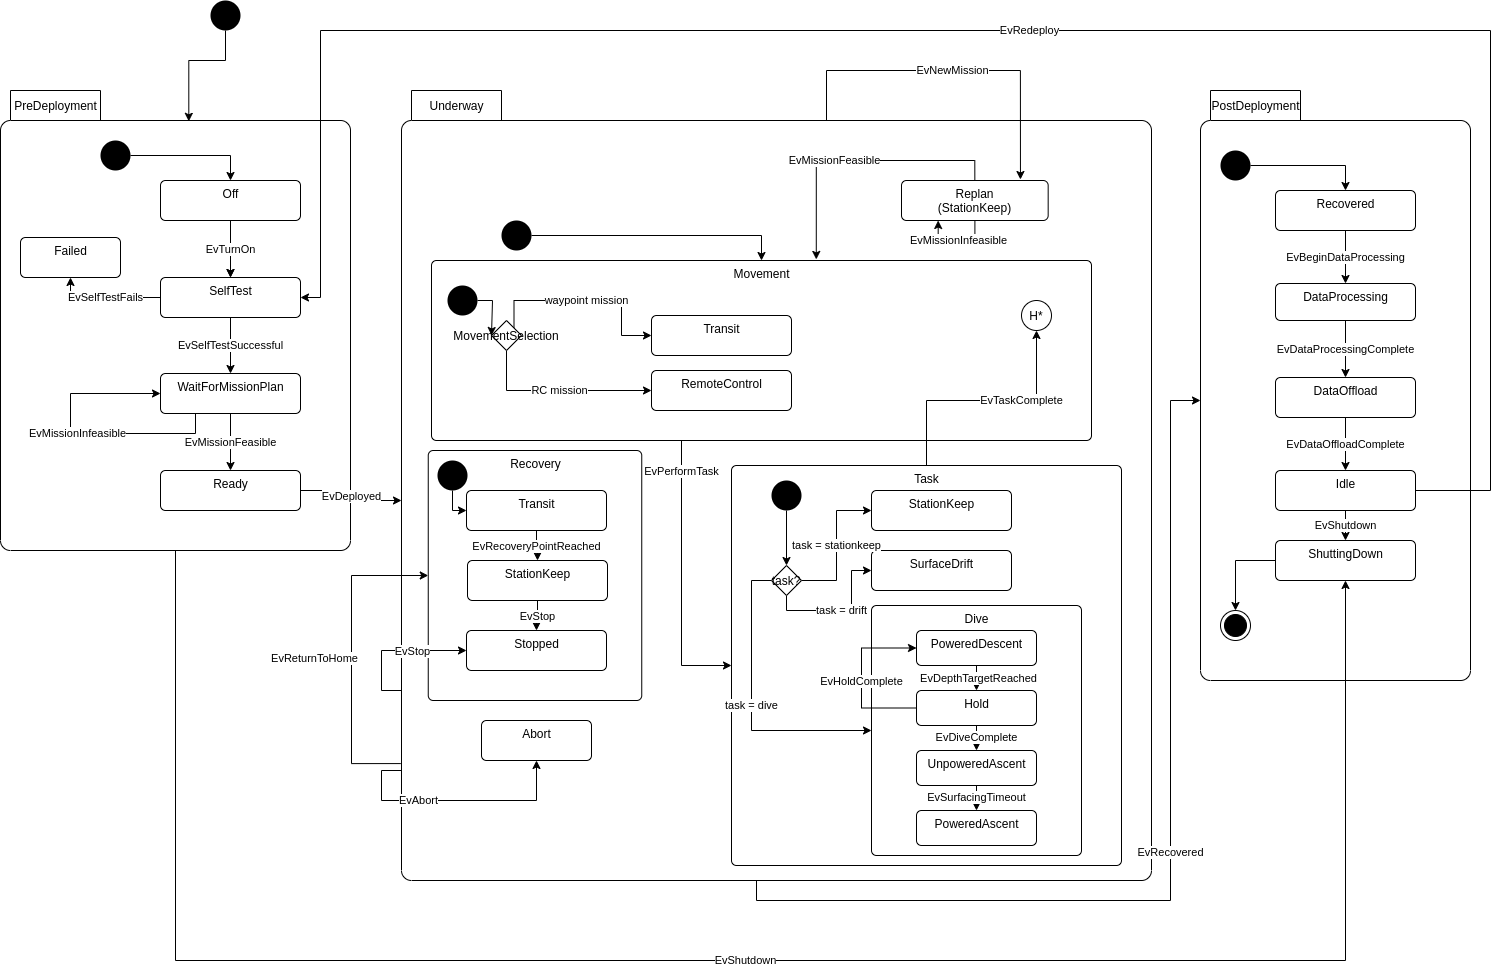
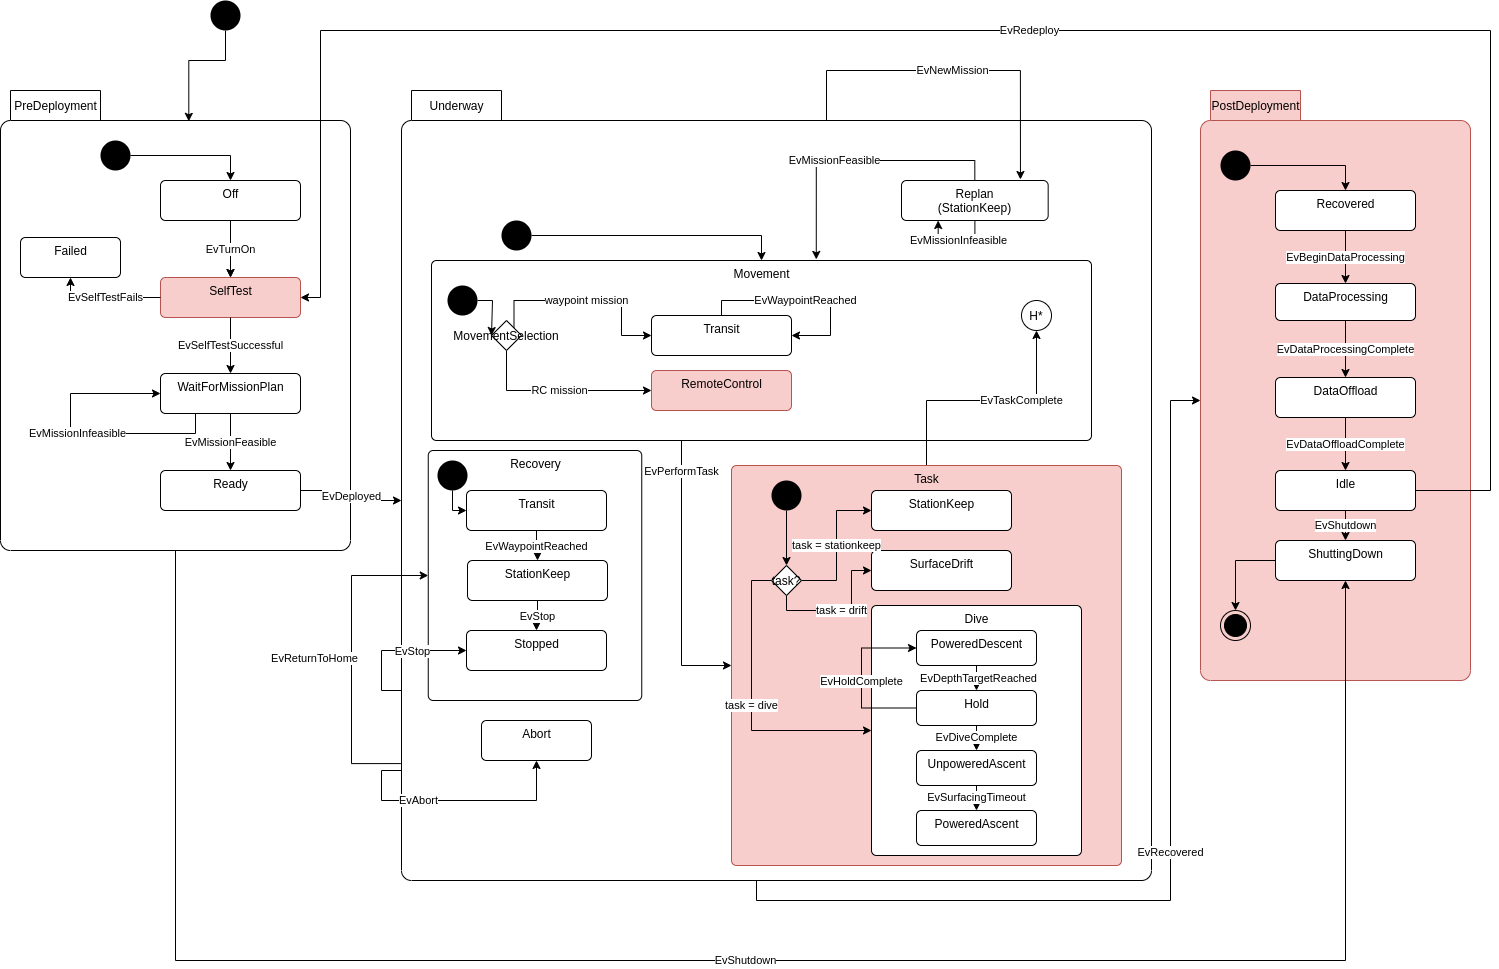
Implement transit and stationkeep

diff --git a/src/bin/mission_manager/machine.cpp b/src/bin/mission_manager/machine.cpp
@@ -1,19 +1,116 @@
 #include "machine.h"
 #include "mission_manager.h"
 
-jaiabot::statechart::underway::movement::Transit::Transit(typename StateBase::my_context c)
-    : StateBase(c)
-{
-    protobuf::MissionPlan::Goal goal = context<Underway>().current_goal();
-    protobuf::IvPBehaviorUpdate update;
-    protobuf::IvPBehaviorUpdate::TransitUpdate& transit = *update.mutable_transit();
+using goby::glog;
 
-    auto xy = this->machine().geodesy().convert(
-        {goal.location().lat_with_units(), goal.location().lon_with_units()});
+jaiabot::protobuf::IvPBehaviorUpdate
+create_transit_update(const jaiabot::protobuf::GeographicCoordinate& location,
+                      boost::units::quantity<boost::units::si::velocity> speed,
+                      const goby::util::UTMGeodesy& geodesy)
+{
+    jaiabot::protobuf::IvPBehaviorUpdate update;
+    jaiabot::protobuf::IvPBehaviorUpdate::TransitUpdate& transit = *update.mutable_transit();
+
+    auto xy = geodesy.convert({location.lat_with_units(), location.lon_with_units()});
 
     transit.set_x_with_units(xy.x);
     transit.set_y_with_units(xy.y);
-    transit.set_speed_with_units(this->cfg().transit_speed_with_units());
+    transit.set_speed_with_units(speed);
 
+    glog.is_verbose() && glog << group("movement")
+                              << "Sending update to pHelmIvP: " << update.ShortDebugString()
+                              << std::endl;
+    return update;
+}
+
+jaiabot::protobuf::IvPBehaviorUpdate
+create_stationkeep_update(const jaiabot::protobuf::GeographicCoordinate& location,
+                          boost::units::quantity<boost::units::si::velocity> transit_speed,
+                          boost::units::quantity<boost::units::si::velocity> outer_speed,
+                          const goby::util::UTMGeodesy& geodesy)
+{
+    jaiabot::protobuf::IvPBehaviorUpdate update;
+    jaiabot::protobuf::IvPBehaviorUpdate::StationkeepUpdate& stationkeep =
+        *update.mutable_stationkeep();
+
+    stationkeep.set_active(true);
+
+    auto xy = geodesy.convert({location.lat_with_units(), location.lon_with_units()});
+
+    stationkeep.set_x_with_units(xy.x);
+    stationkeep.set_y_with_units(xy.y);
+    stationkeep.set_transit_speed_with_units(transit_speed);
+    stationkeep.set_outer_speed_with_units(outer_speed);
+
+    glog.is_verbose() && glog << group("movement")
+                              << "Sending update to pHelmIvP: " << update.ShortDebugString()
+                              << std::endl;
+    return update;
+}
+
+// Movement::Transit
+jaiabot::statechart::underway::movement::Transit::Transit(typename StateBase::my_context c)
+    : StateBase(c)
+{
+    boost::optional<protobuf::MissionPlan::Goal> goal = context<Underway>().current_goal();
+
+    if (goal)
+    {
+        auto update = create_transit_update(
+            goal->location(), this->cfg().transit_speed_with_units(), this->machine().geodesy());
+        this->interprocess().publish<groups::mission_ivp_behavior_update>(update);
+    }
+}
+
+// Recovery::Transit
+jaiabot::statechart::underway::recovery::Transit::Transit(typename StateBase::my_context c)
+    : StateBase(c)
+{
+    auto recovery = this->machine().mission_plan().recovery();
+    jaiabot::protobuf::IvPBehaviorUpdate update;
+    if (recovery.recover_at_final_goal())
+    {
+        auto final_goal = context<Underway>().final_goal();
+        update =
+            create_transit_update(final_goal.location(), this->cfg().transit_speed_with_units(),
+                                  this->machine().geodesy());
+    }
+    else
+    {
+        update = create_transit_update(recovery.location(), this->cfg().transit_speed_with_units(),
+                                       this->machine().geodesy());
+    }
+    this->interprocess().publish<groups::mission_ivp_behavior_update>(update);
+}
+
+// Recovery::StationKeep
+jaiabot::statechart::underway::recovery::StationKeep::StationKeep(typename StateBase::my_context c)
+    : StateBase(c)
+{
+    auto recovery = this->machine().mission_plan().recovery();
+    jaiabot::protobuf::IvPBehaviorUpdate update;
+    if (recovery.recover_at_final_goal())
+    {
+        auto final_goal = context<Underway>().final_goal();
+        update = create_stationkeep_update(
+            final_goal.location(), this->cfg().transit_speed_with_units(),
+            this->cfg().stationkeep_outer_speed_with_units(), this->machine().geodesy());
+    }
+    else
+    {
+        update = create_stationkeep_update(
+            recovery.location(), this->cfg().transit_speed_with_units(),
+            this->cfg().stationkeep_outer_speed_with_units(), this->machine().geodesy());
+    }
+    this->interprocess().publish<groups::mission_ivp_behavior_update>(update);
+}
+
+jaiabot::statechart::underway::recovery::StationKeep::~StationKeep()
+{
+    jaiabot::protobuf::IvPBehaviorUpdate update;
+    jaiabot::protobuf::IvPBehaviorUpdate::StationkeepUpdate& stationkeep =
+        *update.mutable_stationkeep();
+
+    stationkeep.set_active(false);
     this->interprocess().publish<groups::mission_ivp_behavior_update>(update);
 }

diff --git a/src/bin/mission_manager/machine.h b/src/bin/mission_manager/machine.h
@@ -5,6 +5,7 @@
 #include <boost/statechart/custom_reaction.hpp>
 #include <boost/statechart/deep_history.hpp>
 #include <boost/statechart/event.hpp>
+#include <boost/statechart/in_state_reaction.hpp>
 #include <boost/statechart/state.hpp>
 #include <boost/statechart/state_machine.hpp>
 #include <boost/statechart/transition.hpp>
@@ -52,11 +53,11 @@ struct EvMissionFeasible : boost::statechart::event<EvMissionFeasible>
 
 STATECHART_EVENT(EvMissionInfeasible)
 STATECHART_EVENT(EvDeployed)
+STATECHART_EVENT(EvWaypointReached)
 STATECHART_EVENT(EvPerformTask)
 STATECHART_EVENT(EvTaskComplete)
 STATECHART_EVENT(EvNewMission)
 STATECHART_EVENT(EvReturnToHome)
-STATECHART_EVENT(EvRecoveryPointReached)
 STATECHART_EVENT(EvStop)
 STATECHART_EVENT(EvAbort)
 STATECHART_EVENT(EvRecovered)
@@ -318,16 +319,29 @@ struct Underway
 
     int goal_index() { return goal_index_; }
 
-    protobuf::MissionPlan::Goal current_goal()
+    boost::optional<protobuf::MissionPlan::Goal> current_goal()
     {
-        return this->machine().mission_plan().goal(goal_index());
+        if (mission_complete_)
+            return boost::none;
+        else
+            return boost::optional<protobuf::MissionPlan::Goal>(
+                this->machine().mission_plan().goal(goal_index()));
+    }
+
+    protobuf::MissionPlan::Goal final_goal()
+    {
+        const auto& mission_plan = this->machine().mission_plan();
+        return mission_plan.goal(mission_plan.goal_size() - 1);
     }
 
     boost::optional<protobuf::MissionPlan::Goal::Task> current_task()
     {
+        if (mission_complete_)
+            return boost::none;
+
         const auto& plan = this->machine().mission_plan();
-        if (plan.goal(goal_index()).has_task())
-            return boost::optional<protobuf::MissionPlan::Goal::Task>();
+        if (!plan.goal(goal_index()).has_task())
+            return boost::none;
         else
             return boost::optional<protobuf::MissionPlan::Goal::Task>(
                 plan.goal(goal_index()).task());
@@ -338,11 +352,19 @@ struct Underway
         ++goal_index_;
         // all goals completed
         if (goal_index_ >= this->machine().mission_plan().goal_size())
+        {
+            goby::glog.is_verbose() && goby::glog << group("movement")
+                                                  << "All goals complete, mission is complete."
+                                                  << std::endl;
+
             post_event(EvReturnToHome());
+            mission_complete_ = true;
+        }
     }
 
   private:
     int goal_index_{0};
+    bool mission_complete_{false};
 };
 
 namespace underway
@@ -407,7 +429,7 @@ struct MovementSelection : boost::statechart::state<MovementSelection, Movement>
             case protobuf::MissionPlan::REMOTE_CONTROL: return transit<RemoteControl>();
         }
 
-        // should never reach here bust if does, abort the mission
+        // should never reach here but if does, abort the mission
         return transit<underway::Abort>();
     }
 
@@ -422,6 +444,11 @@ struct Transit : boost::statechart::state<Transit, Movement>,
     using StateBase = boost::statechart::state<Transit, Movement>;
     Transit(typename StateBase::my_context c);
     ~Transit() {}
+
+    void waypoint_reached(const EvWaypointReached&) { post_event(EvPerformTask()); }
+
+    using reactions = boost::statechart::in_state_reaction<EvWaypointReached, Transit,
+                                                           &Transit::waypoint_reached>;
 };
 
 struct RemoteControl : boost::statechart::state<RemoteControl, Movement>,
@@ -586,11 +613,11 @@ struct Transit : boost::statechart::state<Transit, Recovery>,
                         >
 {
     using StateBase = boost::statechart::state<Transit, Recovery>;
-    Transit(typename StateBase::my_context c) : StateBase(c) {}
+    Transit(typename StateBase::my_context c);
     ~Transit() {}
 
     using reactions =
-        boost::mpl::list<boost::statechart::transition<EvRecoveryPointReached, StationKeep>>;
+        boost::mpl::list<boost::statechart::transition<EvWaypointReached, StationKeep>>;
 };
 
 struct StationKeep : boost::statechart::state<StationKeep, Recovery>,
@@ -599,8 +626,8 @@ struct StationKeep : boost::statechart::state<StationKeep, Recovery>,
                             >
 {
     using StateBase = boost::statechart::state<StationKeep, Recovery>;
-    StationKeep(typename StateBase::my_context c) : StateBase(c) {}
-    ~StationKeep() {}
+    StationKeep(typename StateBase::my_context c);
+    ~StationKeep();
 
     using reactions = boost::mpl::list<boost::statechart::transition<EvStop, Stopped>>;
 };

diff --git a/src/lib/moos_gateway/jaiabot_gateway_plugin.cpp b/src/lib/moos_gateway/jaiabot_gateway_plugin.cpp
@@ -31,7 +31,31 @@ void jaiabot::moos::IvPHelmTranslation::publish_bhv_update(
             std::stringstream update_ss;
             update_ss << "point=" << update.transit().x() << "," << update.transit().y()
                       << "#speed=" << update.transit().speed();
-            moos().comms().Notify("JAIA_MOVEMENT_TRANSIT_UPDATES", update_ss.str());
+            moos().comms().Notify("JAIABOT_TRANSIT_UPDATES", update_ss.str());
+
+            // order matters!
+            //   post after JAIABOT_TRANSIT_UPDATES to ensure new waypoint
+            //   is loaded before the behavior becomes active
+            moos().comms().Notify("JAIABOT_WAYPOINT_ACTIVE", "true");
+
+            break;
+        }
+
+        case protobuf::IvPBehaviorUpdate::kStationkeep:
+        {
+            std::stringstream update_ss;
+            if (update.stationkeep().active())
+            {
+                update_ss << "station_pt=" << update.stationkeep().x() << ","
+                          << update.stationkeep().y()
+                          << "#outer_speed=" << update.stationkeep().outer_speed()
+                          << "#transit_speed=" << update.stationkeep().transit_speed();
+                moos().comms().Notify("JAIABOT_STATIONKEEP_UPDATES", update_ss.str());
+            }
+
+            moos().comms().Notify("JAIABOT_STATIONKEEP_ACTIVE",
+                                  update.stationkeep().active() ? "true" : "false");
+
             break;
         }
 

diff --git a/src/lib/moos_gateway/jaiabot_gateway_plugin.h b/src/lib/moos_gateway/jaiabot_gateway_plugin.h
@@ -22,9 +22,18 @@ class IvPHelmTranslation : public goby::moos::Translator
 
         goby().interprocess().subscribe<jaiabot::groups::mission_report>(
             [this](const protobuf::MissionReport& report) {
-                moos().comms().Notify("JAIA_MISSION_STATE",
+                moos().comms().Notify("JAIABOT_MISSION_STATE",
                                       jaiabot::protobuf::MissionState_Name(report.state()));
             });
+
+        moos().add_trigger("JAIABOT_TRANSIT_COMPLETE", [this](const CMOOSMsg& msg) {
+            if (msg.GetString() == "true")
+            {
+                protobuf::IvPBehaviorReport report;
+                report.mutable_transit()->set_waypoint_reached(true);
+                goby().interprocess().publish<jaiabot::groups::mission_ivp_behavior_report>(report);
+            }
+        });
     }
 
   private:

diff --git a/src/bin/mission_manager/app.cpp b/src/bin/mission_manager/app.cpp
@@ -131,6 +131,20 @@ jaiabot::apps::MissionManager::MissionManager()
                 interprocess().publish<jaiabot::groups::desired_setpoints>(setpoint_msg);
             }
         });
+
+    // subscribe for reports from the pHelmIvP behaviors
+    interprocess().subscribe<jaiabot::groups::mission_ivp_behavior_report>(
+        [this](const protobuf::IvPBehaviorReport& report) {
+            switch (report.behavior_case())
+            {
+                case protobuf::IvPBehaviorReport::kTransit:
+                    if (report.transit().waypoint_reached())
+                        machine_->process_event(statechart::EvWaypointReached());
+                    break;
+
+                case protobuf::IvPBehaviorReport::BEHAVIOR_NOT_SET: break;
+            }
+        });
 }
 
 void jaiabot::apps::MissionManager::loop()

diff --git a/src/lib/groups.h b/src/lib/groups.h
@@ -51,6 +51,7 @@ constexpr goby::middleware::Group desired_setpoints{"jaiabot::desired_setpoints"
 // mission manager
 constexpr goby::middleware::Group mission_report{"jaiabot::mission_report"};
 constexpr goby::middleware::Group mission_ivp_behavior_update{"jaiabot::mission_ivp_behavior_update"};
+constexpr goby::middleware::Group mission_ivp_behavior_report{"jaiabot::mission_ivp_behavior_report"};
 
 // DCCL (intervehicle)
 constexpr goby::middleware::Group bot_status{"jaiabot::bot_status",
